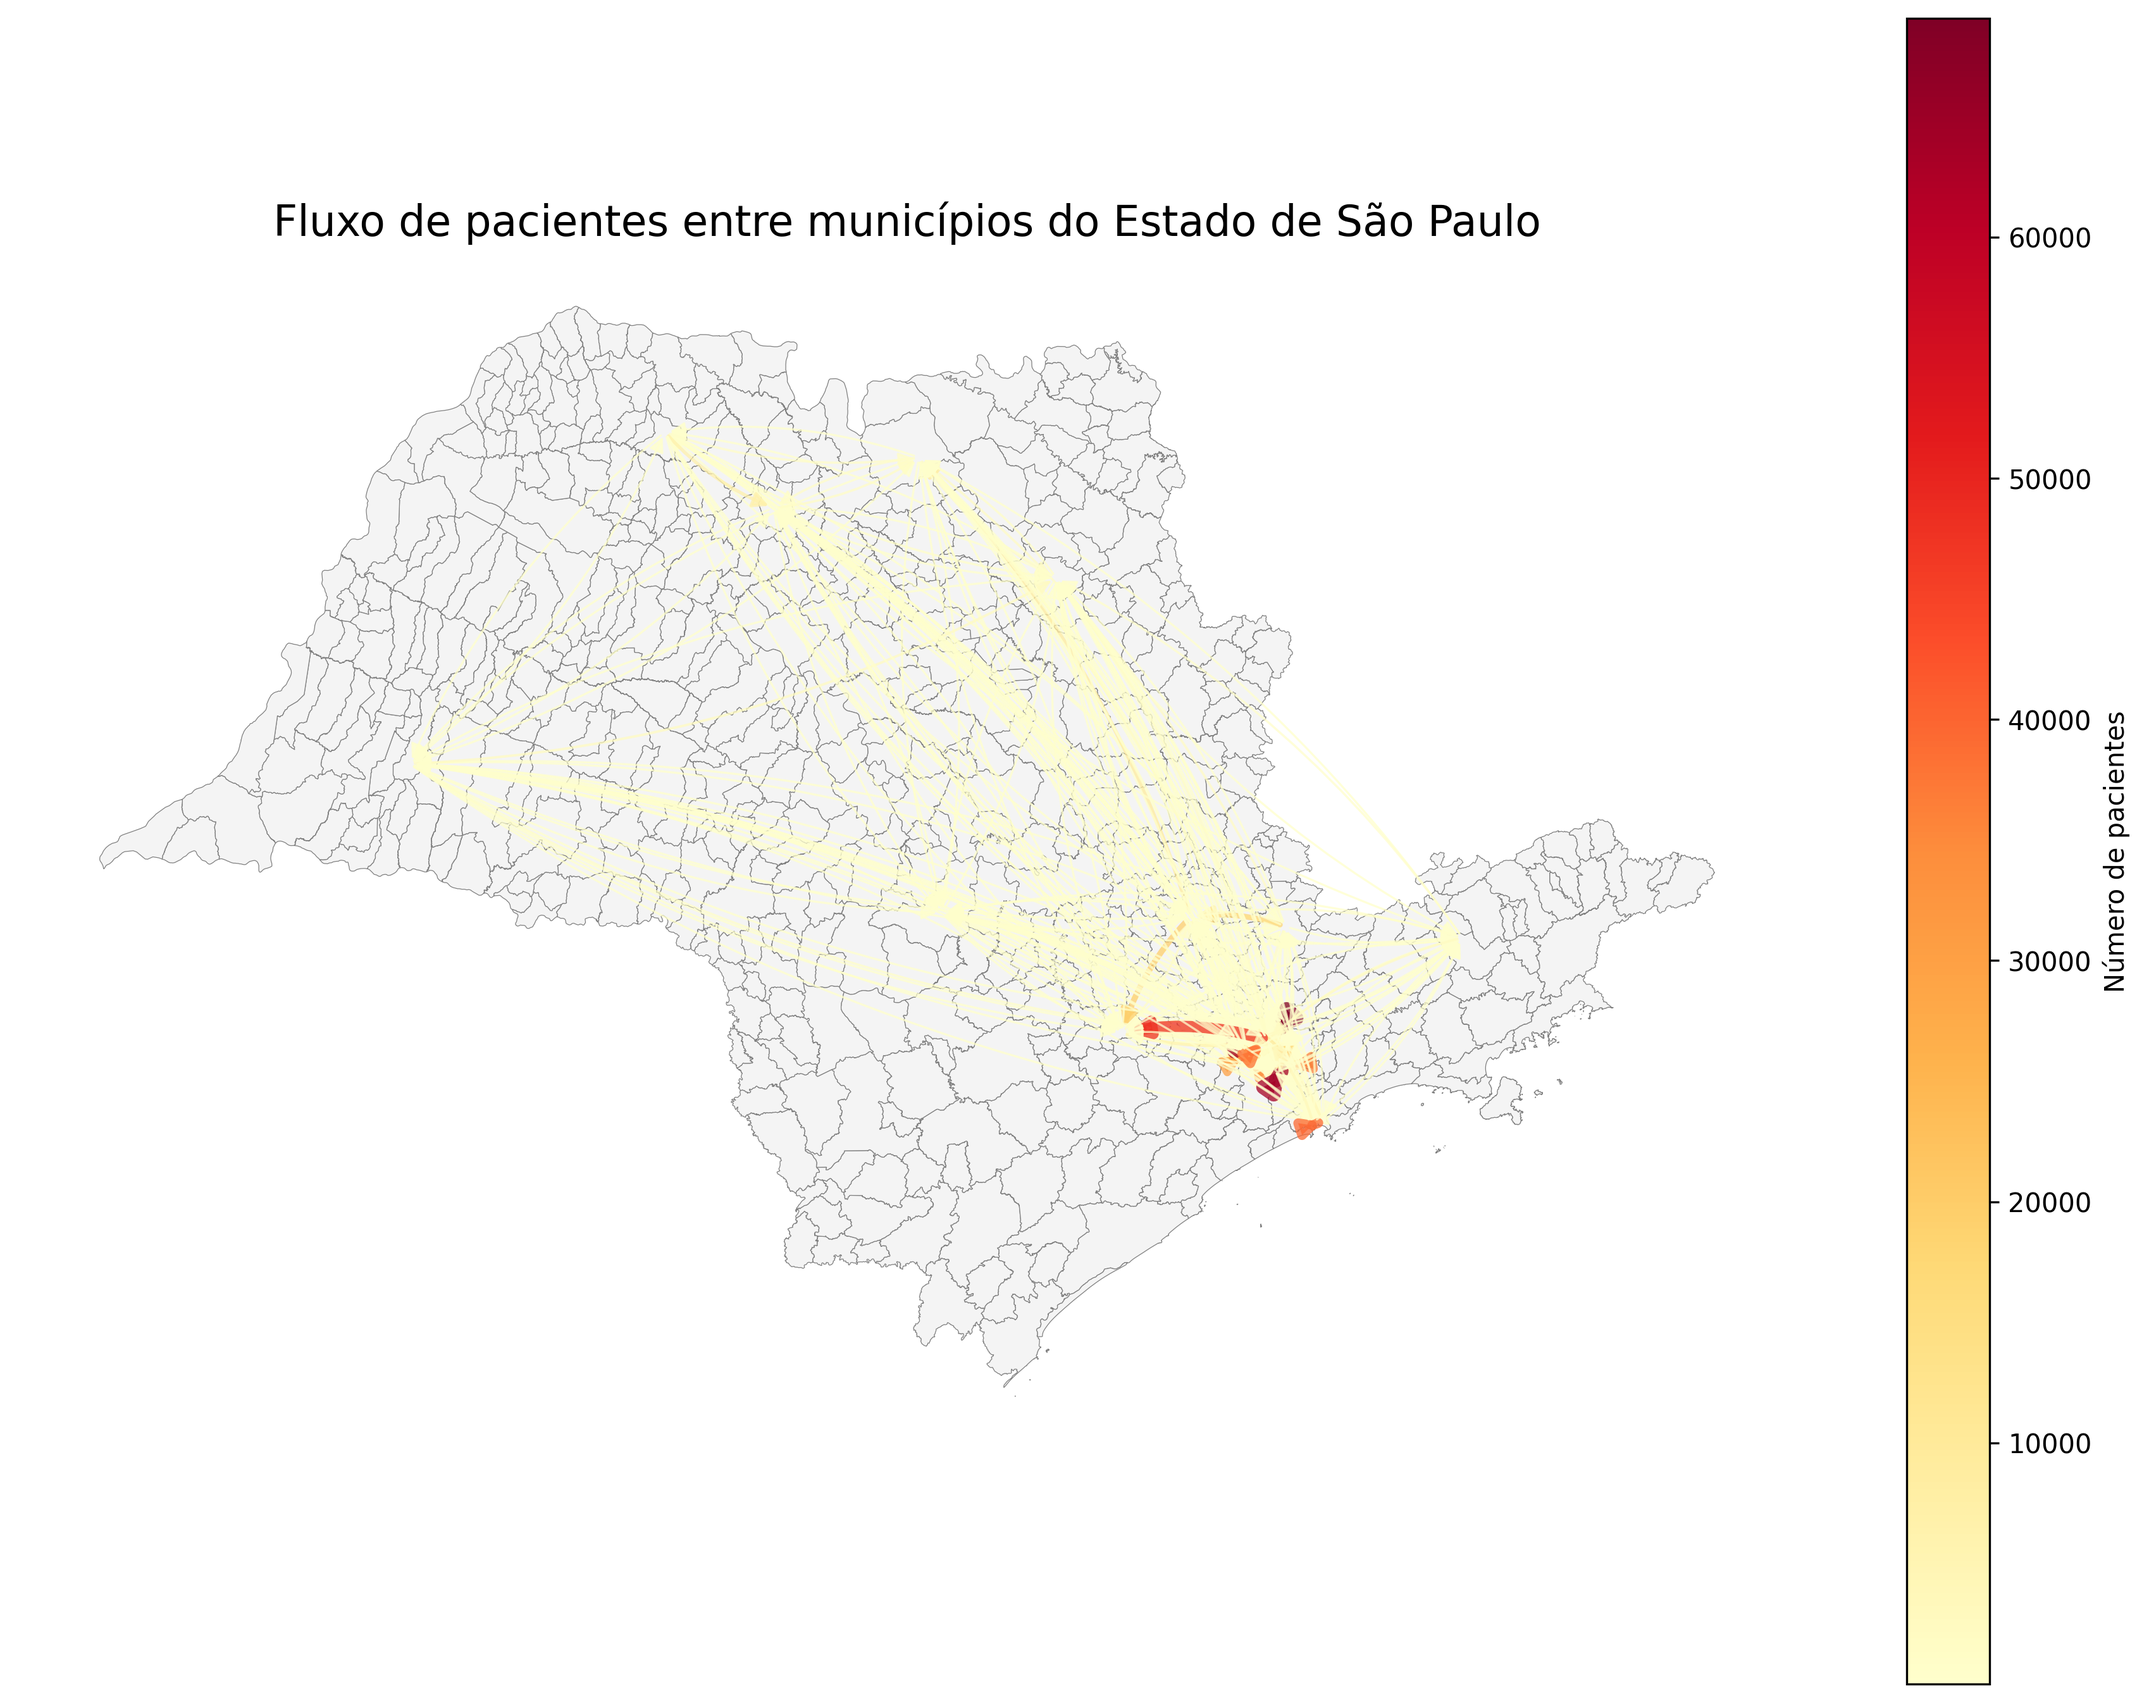
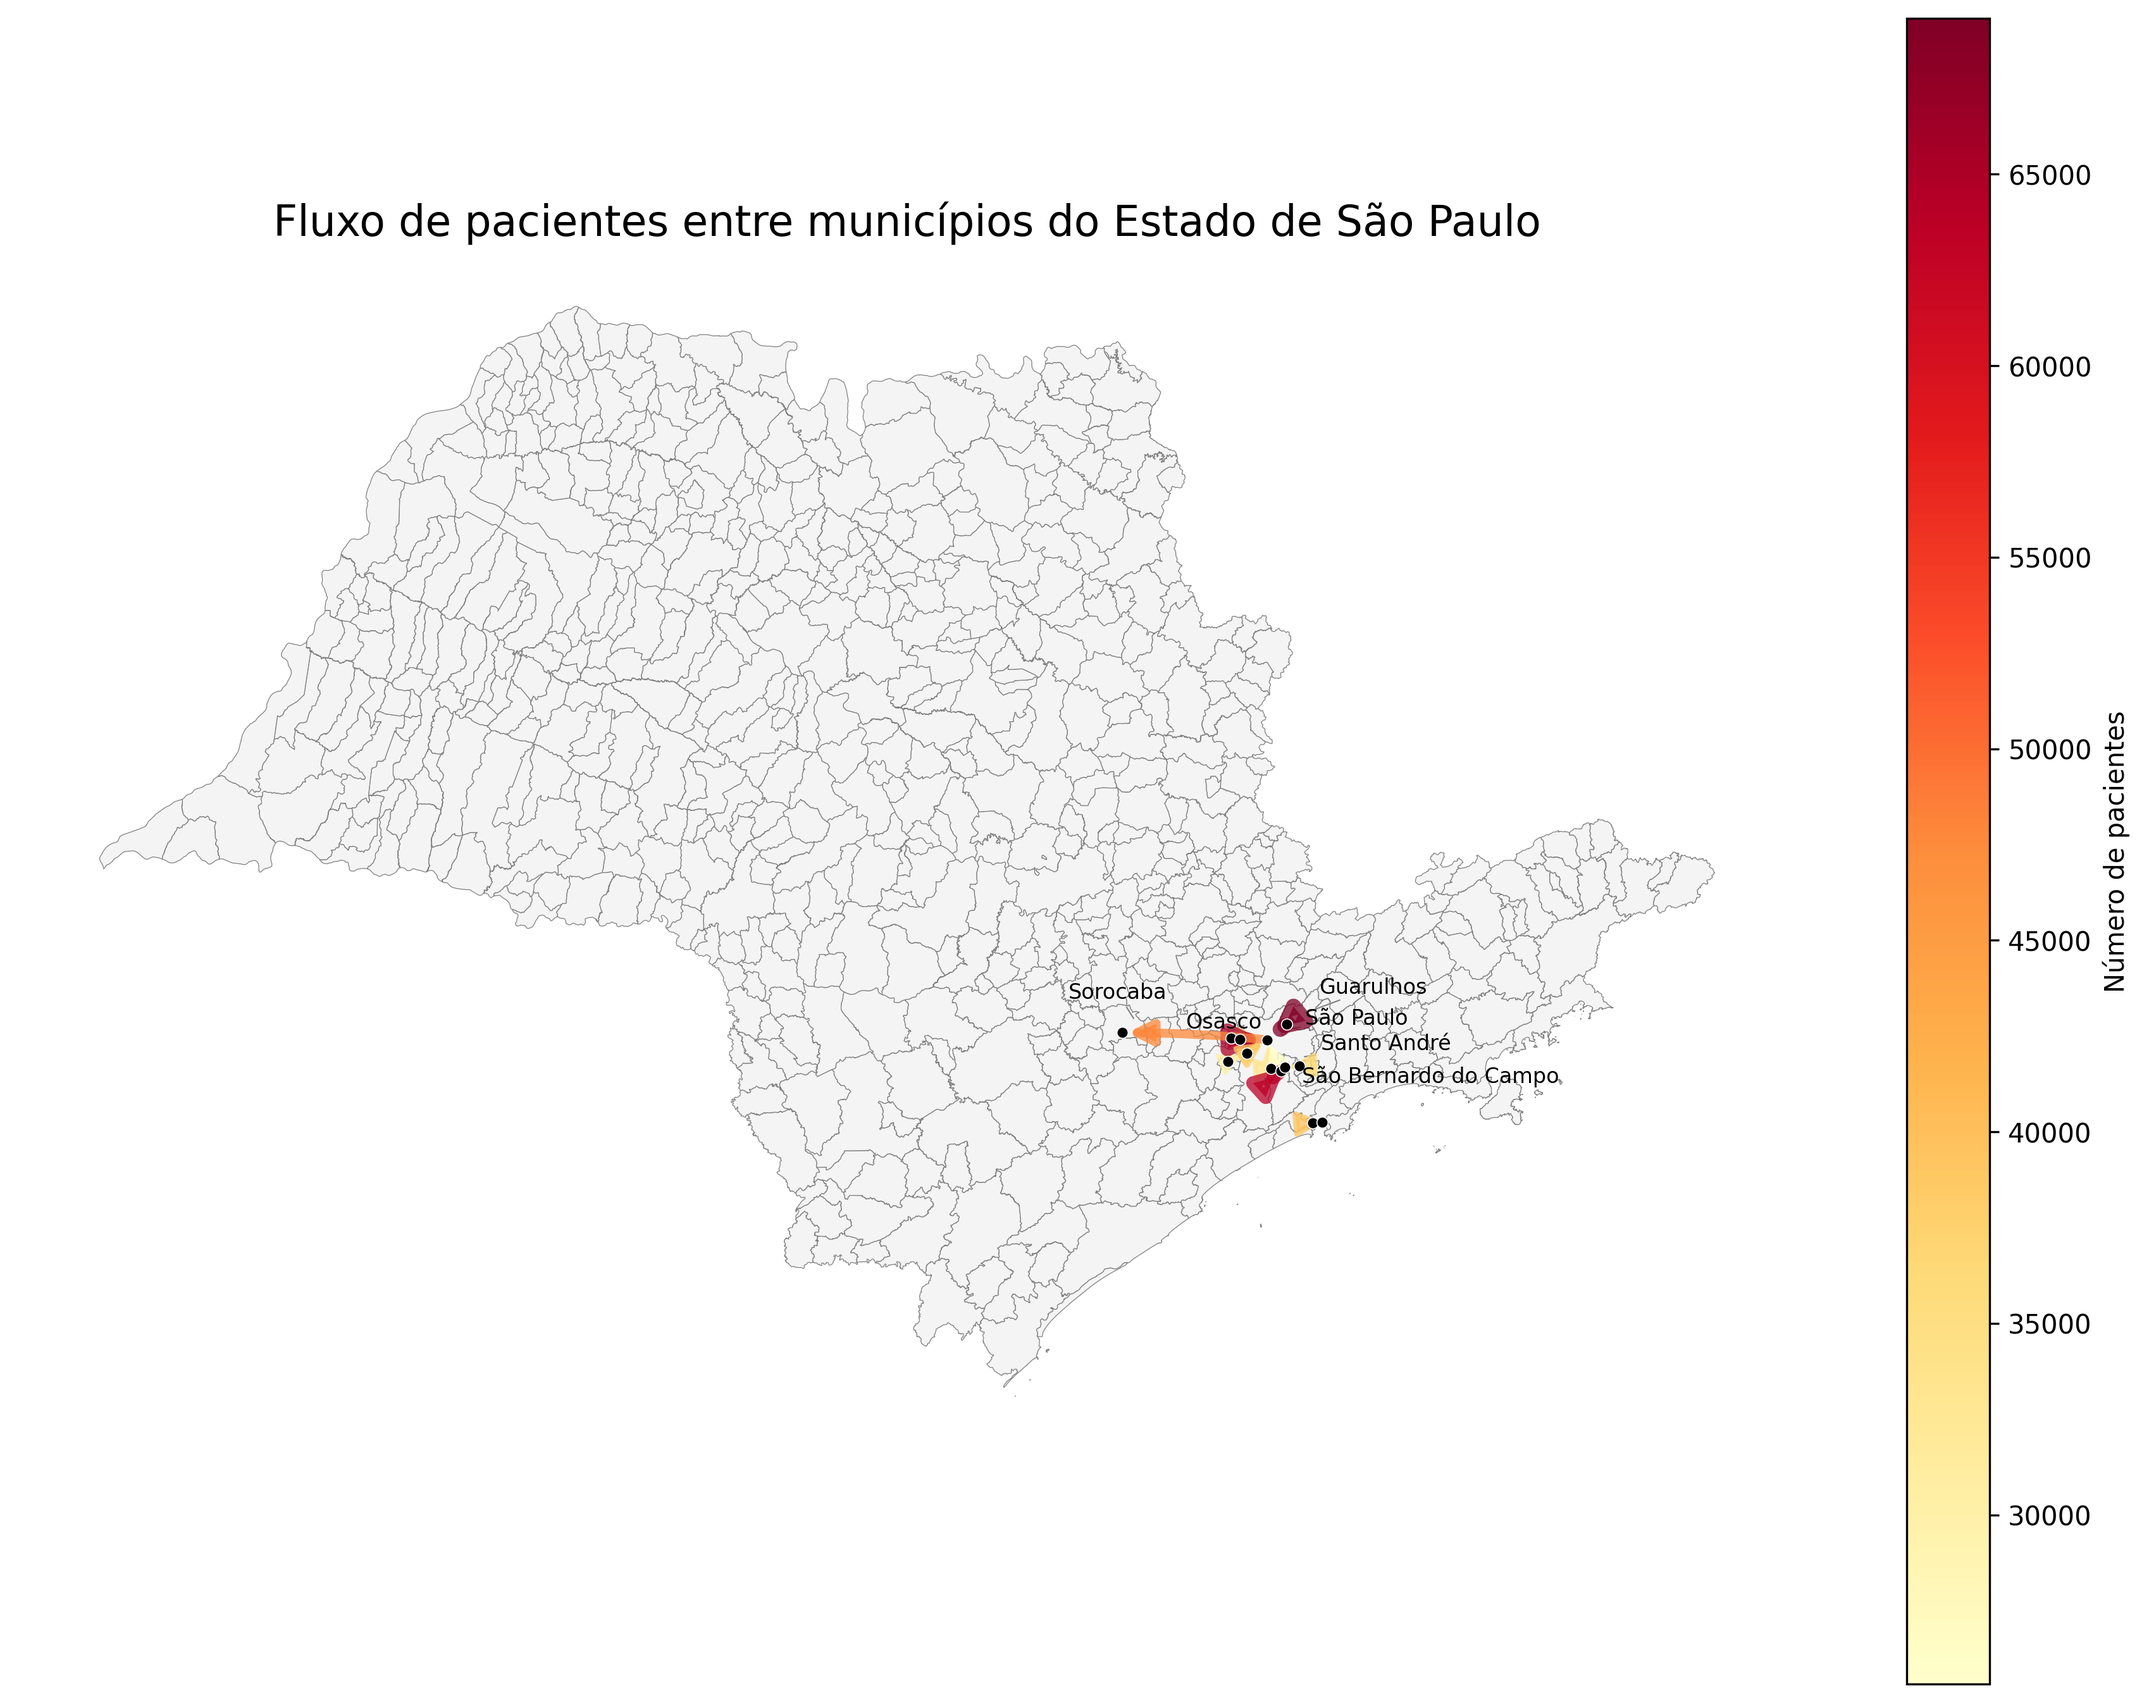
mapa de fluxo

diff --git a/src/capstone_datasus/pipelines/pipe_14_flow_map/nodes.py b/src/capstone_datasus/pipelines/pipe_14_flow_map/nodes.py
@@ -1,8 +1,9 @@
 import pandas as pd
-
+import numpy as np
 import matplotlib.pyplot as plt
 import matplotlib as mpl
 import geopandas as gpd
+from adjustText import adjust_text
 
 from matplotlib.patches import FancyArrowPatch
 
@@ -145,30 +146,40 @@ def plot_patient_flow(
     shp_path: str,
     output_path: str,
     figsize=(12, 12),
-    min_quantidade=0,
+    min_quantidade=25000,
 ):
-    
-    #Ler o arquivo diretamente da pasta
-    gdf_sp = gpd.read_file(shp_path)
-
     """
     Plota o fluxo de pacientes entre municípios do Estado de São Paulo.
 
     Parameters
     ----------
     df_fluxo : pd.DataFrame
+        DataFrame contendo as colunas:
+            municipio_origem
+            municipio_destino
+            quantidade
+            latitude_origem
+            longitude_origem
+            latitude_destino
+            longitude_destino
 
-    gdf_sp : geopandas.GeoDataFrame
-        GeoDataFrame contendo os municípios do estado de São Paulo.
+    shp_path : str
+        Caminho para o shapefile do estado de São Paulo.
 
     output_path : str
         Caminho onde a imagem será salva.
 
     figsize : tuple, default=(12, 12)
 
-    min_quantidade : int, default=0
+    min_quantidade : int, default=25000
         Fluxos com quantidade inferior a este valor são ignorados.
     """
+
+    ####################################################################
+    # Ler shapefile
+    ####################################################################
+
+    gdf_sp = gpd.read_file(shp_path)
 
     fluxo = df_fluxo.copy()
 
@@ -185,6 +196,7 @@ def plot_patient_flow(
         color="#F4F4F4",
         edgecolor="gray",
         linewidth=0.3,
+        zorder=1,
     )
 
     ####################################################################
@@ -217,18 +229,139 @@ def plot_patient_flow(
 
         cor = cmap(norm(row["quantidade"]))
 
+        ################################################################
+        # Curvatura proporcional à distância
+        ################################################################
+
+        dx = row["longitude_destino"] - row["longitude_origem"]
+        dy = row["latitude_destino"] - row["latitude_origem"]
+
+        dist = np.hypot(dx, dy)
+
+        rad = min(0.15, 0.03 * dist)
+
         seta = FancyArrowPatch(
             (row["longitude_origem"], row["latitude_origem"]),
             (row["longitude_destino"], row["latitude_destino"]),
             arrowstyle="-|>",
-            mutation_scale=12,
+            mutation_scale=18,
             linewidth=lw,
             color=cor,
             alpha=0.75,
-            connectionstyle="arc3,rad=0.12",
+            connectionstyle=f"arc3,rad={rad}",
+            zorder=3,
         )
 
         ax.add_patch(seta)
+
+    ####################################################################
+    # Desenhar municípios
+    ####################################################################
+
+    cidades = (
+        pd.concat(
+            [
+                fluxo[
+                    [
+                        "municipio_origem",
+                        "latitude_origem",
+                        "longitude_origem",
+                    ]
+                ].rename(
+                    columns={
+                        "municipio_origem": "municipio",
+                        "latitude_origem": "latitude",
+                        "longitude_origem": "longitude",
+                    }
+                ),
+                fluxo[
+                    [
+                        "municipio_destino",
+                        "latitude_destino",
+                        "longitude_destino",
+                    ]
+                ].rename(
+                    columns={
+                        "municipio_destino": "municipio",
+                        "latitude_destino": "latitude",
+                        "longitude_destino": "longitude",
+                    }
+                ),
+            ]
+        )
+        .drop_duplicates("municipio")
+    )
+
+    # Todos os municípios
+    ax.scatter(
+        cidades["longitude"],
+        cidades["latitude"],
+        s=18,
+        color="black",
+        edgecolor="white",
+        linewidth=0.4,
+        zorder=4,
+    )
+
+    ####################################################################
+    # Municípios que devem ser rotulados
+    ####################################################################
+
+    fluxo_rotulo = fluxo[fluxo["quantidade"] >= 47000]
+
+    municipios_rotular = set(fluxo_rotulo["municipio_origem"]).union(
+    set(fluxo_rotulo["municipio_destino"])
+    )
+
+    ####################################################################
+    # Nome dos municípios rotulados
+    ####################################################################
+
+    texts = []
+
+    for _, row in cidades.iterrows():
+
+        if row["municipio"] not in municipios_rotular:
+            continue
+
+        texts.append(
+        ax.text(
+            row["longitude"] + 0.08,
+            row["latitude"] + 0.05,
+            row["municipio"],
+            fontsize=8,
+            ha="left",
+            va="bottom",
+            zorder=6,
+        )
+        )
+
+    adjust_text(
+        texts,
+        ax=ax,
+        arrowprops=dict(
+        arrowstyle="-",
+        color="gray",
+        lw=0.5,
+        ),
+        )
+
+    ####################################################################
+    # Destacar São Paulo
+    ####################################################################
+
+    #sp = cidades[cidades["municipio"] == "São Paulo"]
+#
+    #if not sp.empty:
+    #    ax.scatter(
+    #        sp["longitude"],
+    #        sp["latitude"],
+    #        s=90,
+    #        color="dodgerblue",
+    #        edgecolor="black",
+    #        linewidth=1,
+    #        zorder=5,
+    #    )
 
     ####################################################################
     # Barra de cores
@@ -249,6 +382,8 @@ def plot_patient_flow(
 
     cbar.set_label("Número de pacientes")
 
+    ####################################################################
+    # Título
     ####################################################################
 
     ax.set_title(
